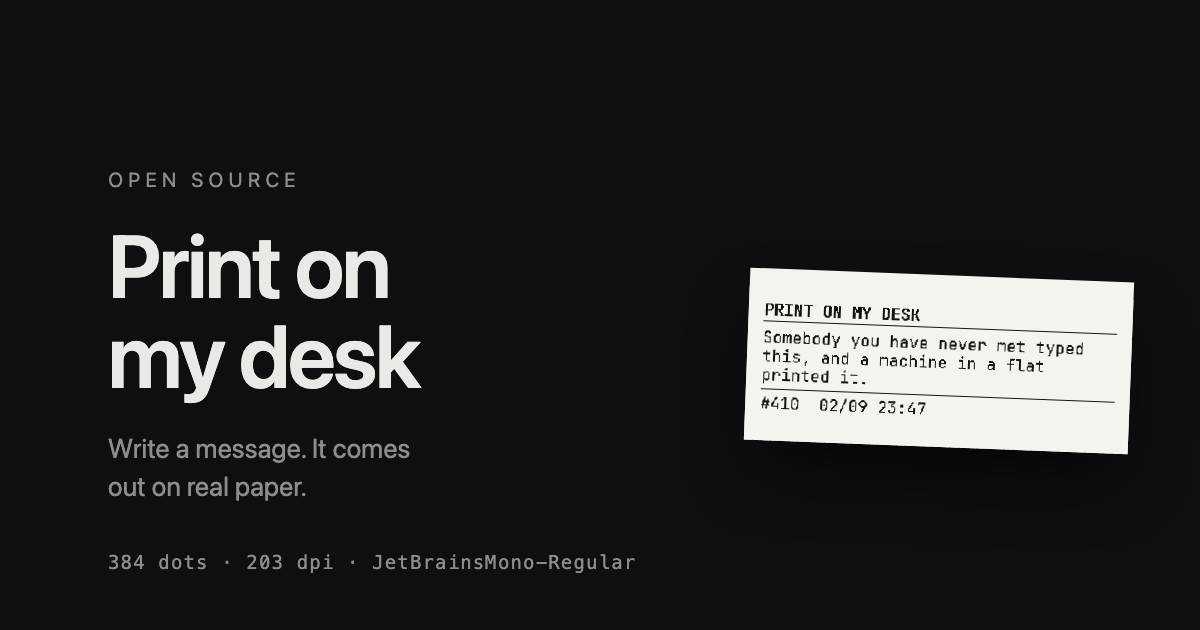
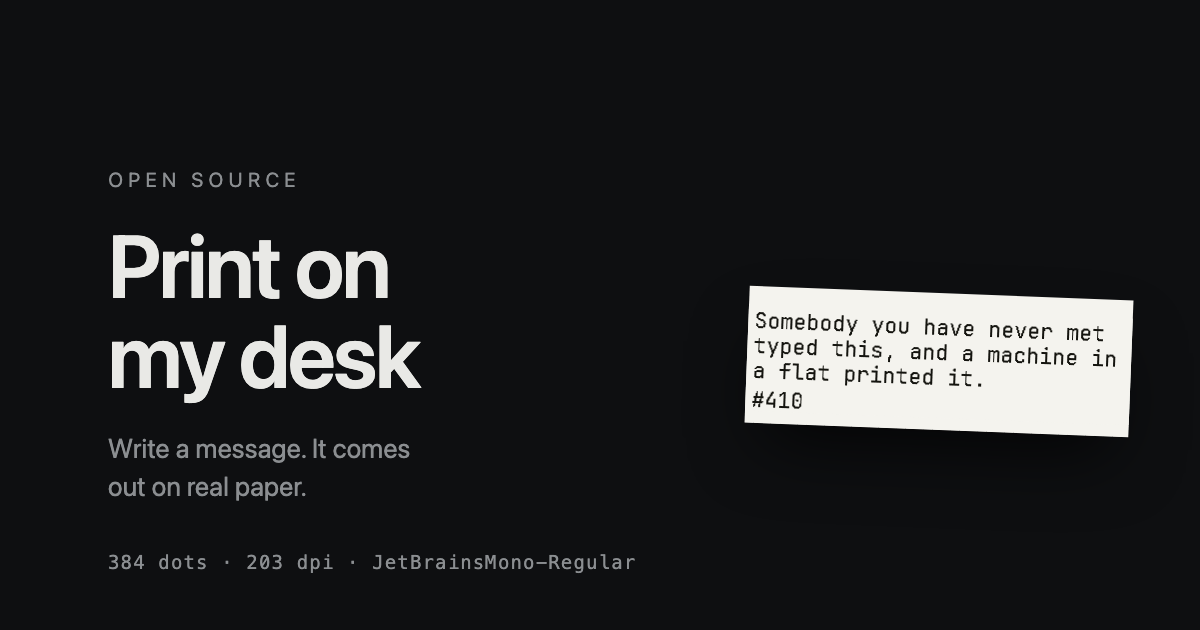
Walk the quick start as a stranger, and fix what it walks into
Everything below was found by cloning this repository fresh, following the
docs literally, and running the Worker locally until something disagreed with
something else.

THE PREVIEW WAS SHOWING THE WRONG PRINTER. web/bridge/bridge.js asks the
Worker for the mxw01 profile - 384 dots, 28 columns - because that is the
printer the quick start tells you to buy, and it hardcodes it. The page
rendered its preview with CURRENT_PROFILE, which was trp100: 512 dots, 36
columns. Eight columns of difference between what somebody was shown and what
came out of the machine, on the documented default setup, in a page whose
whole argument is that the preview IS the ticket. CURRENT_PROFILE means "the
printer this deployment actually has", and this deployment's is the MXW01.

And once the page was on the right profile, it came out UPSIDE DOWN. The
MXW01's buffer is rendered pre-rotated because its head is mounted that way;
the bytes go to the head, not to a person. app.js already undid it. preview.js
and the social card did not, because neither had ever met a rotated profile.
All three carry the line now, and each says where the other two are.

Changing the ticket font left the site previewing the old one. build_font.py
writes worker/src/font-atlas.js and web/font-atlas.json, but the page reads
web/lib/font-atlas.js, which tools/sync_web.mjs makes - and docs/05 said
"Then deploy". Proven by doing it: the Worker printed Courier Prime while the
[…]

Changed region(s): [[0.6167, 0.4222, 0.9558, 0.7238]]

diff --git a/worker/src/not-found.js b/worker/src/not-found.js
@@ -3,6 +3,14 @@
 //
 // It borrows the front page's stylesheet rather than carrying a second copy of
 // the palette, so it cannot drift out of step with the site it belongs to.
+//
+// That is also why it declares no `color-scheme` of its own and preloads no
+// fonts. Both used to be here and both were edition-specific: the meta said
+// `light`, which is this deployment and not the open-source one, and the two
+// preloads named font files the open-source edition does not ship - so its 404
+// page asked the browser for two things that answered 404. The stylesheet
+// already sets `color-scheme` on :root, and preloading a webfont on an error
+// page was optimising the one page nobody waits on.
 
 export const NOT_FOUND_PAGE = String.raw`<!doctype html>
 <html lang="en">
@@ -10,11 +18,8 @@ export const NOT_FOUND_PAGE = String.raw`<!doctype html>
 <meta charset="utf-8">
 <meta name="viewport" content="width=device-width, initial-scale=1">
 <meta name="robots" content="noindex">
-<meta name="color-scheme" content="light">
 <title>Nothing here · Print on my desk</title>
 <link rel="icon" href="/favicon.svg" type="image/svg+xml">
-<link rel="preload" href="/fonts/doto-latin.woff2" as="font" type="font/woff2" crossorigin>
-<link rel="preload" href="/fonts/kode-mono-latin.woff2" as="font" type="font/woff2" crossorigin>
 <link rel="stylesheet" href="/style.css">
 <style nonce="__CSP_NONCE__">
   main { display: flex; flex-direction: column; justify-content: center; min-height: 70vh; }

diff --git a/tools/og.html b/tools/og.html
@@ -68,10 +68,14 @@
   import { CURRENT_PROFILE, profileFor } from "/lib/profiles.js";
   import ATLAS from "/lib/font-atlas.js";
 
+  const profile = profileFor(CURRENT_PROFILE);
   const rendered = renderTicket(
     "Somebody you have never met typed this, and a machine in a flat printed it.",
-    { id: 410, createdAt: Date.parse("2026-09-02T21:47:00Z"), profile: profileFor(CURRENT_PROFILE) }
+    { id: 410, createdAt: Date.parse("2026-09-02T21:47:00Z"), profile }
   );
+  // Pre-rotated for a head mounted upside down. A card is looked at by people,
+  // so undo it - the same line web/app.js and web/preview.js each carry.
+  if (profile.flip180) rendered.rotate180();
   const cv = document.getElementById("cv");
   cv.width = rendered.widthPixels;
   cv.height = Math.max(rendered.height, 1);

diff --git a/web/preview.js b/web/preview.js
@@ -79,6 +79,13 @@ if (canvas && input) {
       createdAt: Date.now(),
       profile,
     });
+    // The MXW01's buffer is rendered PRE-ROTATED, because its head is mounted
+    // upside down and the bytes go to the head, not to a person. Undo it here
+    // or the preview comes out mirrored and unreadable - which is exactly what
+    // it did the first time this file met a flip180 profile. app.js does the
+    // same thing at the same point for the printed ticket; profiles with no
+    // rotation, like the TRP 100 III, have nothing to undo.
+    if (profile.flip180) rendered.rotate180();
     paint(rendered, empty ? FAINT : INK, STOCK);
 
     if (cols) {

diff --git a/web/lib/profiles.js b/web/lib/profiles.js
@@ -141,7 +141,7 @@ export const PROFILES = { mxw01: MXW01, trp100: TRP100 };
 export const DEFAULT_PROFILE = "mxw01";
 
 /** The profile the new machine uses, for tools and previews that must pick one. */
-export const CURRENT_PROFILE = "trp100";
+export const CURRENT_PROFILE = "mxw01";
 
 /** Resolves a profile id, falling back rather than throwing on junk input. */
 export function profileFor(id) {

diff --git a/worker/src/profiles.js b/worker/src/profiles.js
@@ -139,7 +139,7 @@ export const PROFILES = { mxw01: MXW01, trp100: TRP100 };
 export const DEFAULT_PROFILE = "mxw01";
 
 /** The profile the new machine uses, for tools and previews that must pick one. */
-export const CURRENT_PROFILE = "trp100";
+export const CURRENT_PROFILE = "mxw01";
 
 /** Resolves a profile id, falling back rather than throwing on junk input. */
 export function profileFor(id) {

diff --git a/web/bridge/index.html b/web/bridge/index.html
@@ -5,7 +5,6 @@
 <meta name="viewport" content="width=device-width, initial-scale=1">
 <title>Bridge · Print on my desk</title>
 <meta name="robots" content="noindex">
-<meta name="color-scheme" content="light dark">
 <link rel="icon" href="/favicon.svg" type="image/svg+xml">
 <link rel="stylesheet" href="/style.css">
 <link rel="stylesheet" href="/bridge/bridge.css">

diff --git a/tools/build_font.py b/tools/build_font.py
@@ -23,6 +23,7 @@ Output:
 
 import argparse
 import json
+import subprocess
 import sys
 import unicodedata
 from pathlib import Path
@@ -370,6 +371,29 @@ def main():
 
     print("  ecrit    : %s (%.1f Ko)" % (js_path.relative_to(ROOT), js_path.stat().st_size / 1024))
     print("             %s (%.1f Ko)" % (json_path.relative_to(ROOT), json_path.stat().st_size / 1024))
+
+    # And then the copy the BROWSER reads, which is neither of the two above.
+    #
+    # This step used to be the reader's job and nothing said so. The page
+    # imports web/lib/font-atlas.js, made by tools/sync_web.mjs from the
+    # worker/src copy - so rebuilding the font and deploying, which is exactly
+    # what docs/05 told you to do, left the site previewing the OLD font while
+    # the Worker printed the new one. The test suite catches it, but only if
+    # you run the tests, and nothing told you to.
+    #
+    # The two must agree or the preview is a lie, so the script that breaks
+    # them is the script that puts them back.
+    sync = ROOT / "tools" / "sync_web.mjs"
+    if sync.exists():
+        try:
+            subprocess.run(["node", str(sync)], cwd=ROOT, check=True,
+                           stdout=subprocess.DEVNULL)
+            print("             web/lib/font-atlas.js (par tools/sync_web.mjs)")
+        except (OSError, subprocess.CalledProcessError) as err:
+            print()
+            print("  ATTENTION: la copie du navigateur n'a pas ete regeneree (%s)." % err)
+            print("             L'apercu montrerait encore l'ancienne police.")
+            print("             Lance :  node tools/sync_web.mjs")
 
     if args.preview:
         print()

diff --git a/docs/05-customising.md b/docs/05-customising.md
@@ -24,9 +24,21 @@ never contradict the actual setting.
 
 ## The look — 20 minutes
 
-`web/style.css`. Four colours and two fonts at the top, in `:root`. Change
-those and it is a different site. There is a dark-mode block underneath doing
-the same four colours.
+`web/style.css`, in `:root`. Change the tokens there and it is a different
+site. The site is dark, and there is no light-mode block to keep in step: one
+palette, one place.
+
+Two of those tokens are not interchangeable, and the comment in the file says
+so. `--paper` and `--ink` are the **page's** background and text — `/admin`
+borrows this stylesheet and paints itself with them, so swapping their meaning
+makes the desk unreadable. The physical roll is `--stock`, and it stays light
+in every theme, because paper does.
+
+**There are no web fonts to change**, and that is the one deliberate part of
+the design. The page has no typeface of its own for a message: what somebody
+types is drawn with the printer's own atlas, so the preview IS the ticket
+rather than a picture of one. The interface uses the reader's system font. If
+you want the page to look different, the next section is where that happens.
 
 No build step, no framework. Edit, reload, deploy.
 
@@ -36,14 +48,34 @@ The printer draws from a bitmap atlas, built offline from a real font. Three
 are set up for you:
 
 ```sh
-python3 tools/build_font.py --preset code        # even, modern (the default)
-python3 tools/build_font.py --preset terminal    # taller, denser
+python3 tools/build_font.py --preset terminal    # taller, denser — WHAT SHIPS
+python3 tools/build_font.py --preset code        # even, modern
 python3 tools/build_font.py --preset typewriter  # looks like a receipt
 ```
 
-Each downloads the font the first time and rewrites two files:
-`worker/src/font-atlas.js` and `web/font-atlas.json` — the Worker's copy and
-the browser preview's, which must always agree. Then deploy.
+**This changes the site, not just the paper.** The headline stays as it is, but
+the preview on the front page, the ticket, and the social card all follow,
+because they were never three things: they all read the same atlas.
+
+Each preset downloads the font the first time and rewrites three files —
+`worker/src/font-atlas.js` for the Worker, `web/lib/font-atlas.js` for the page
+(via `tools/sync_web.mjs`, which the script now runs for you), and
+`web/font-atlas.json`. **The first two must agree or the preview is a lie**, so
+if the script ever tells you it could not regenerate the browser copy, run
+`node tools/sync_web.mjs` before you deploy.
+
+Two more things, in this order:
+
+```sh
+npm --prefix worker test    # the pinned renderings are keyed by font name
+node tools/og_image.mjs     # the social card, in the new font
+```
+
+The test suite pins what the renderer produces, per font, and an atlas it does
+not know about **fails** rather than passing quietly. That is deliberate: add a
+row to `SHIPPED` in `worker/test/profiles.test.mjs` with the height and crc
+your build produces, and say in the comment where the numbers came from. Then
+deploy.
 
 Add `--preview` to see the result as ASCII art in your terminal before you
 commit to it.
@@ -53,6 +85,10 @@ commit to it.
 ```sh
 python3 tools/build_font.py --font path/to/Something.ttf --size 22 --preview
 ```
+
+`--size` is worth trying a few values of. It decides the pitch, and the pitch
+decides how many characters fit on a line: the presets are tuned, but your own
+font will not be.
 
 It must be **monospaced**. The atlas gives every glyph the same advance, and a
 proportional font forced through it comes out looking like a ransom note. The

diff --git a/docs/02-always-on.md b/docs/02-always-on.md
@@ -45,14 +45,26 @@ press the button in the morning. The USB printer has no such behaviour.
 ## 2 · Set up the machine
 
 On a fresh Raspberry Pi: install Raspberry Pi OS Lite (64-bit) with the
-Raspberry Pi Imager, and in the Imager's settings screen turn on SSH and fill
-in your WiFi. That saves you a screen and a keyboard.
+Raspberry Pi Imager. In the Imager's settings screen, set a **hostname**, set a
+**username and password**, turn on **SSH**, and fill in your WiFi. That saves
+you a screen and a keyboard.
 
-Then, from your own computer:
+Write the username and hostname down. There is no default `pi` user any more —
+Raspberry Pi OS stopped shipping one in 2022 — so the address to connect to is
+the two things you just chose:
 
 ```sh
-ssh pi@raspberrypi.local
+ssh YOUR-USERNAME@YOUR-HOSTNAME.local
 ```
+
+If the name does not resolve, give it another two minutes: the first boot
+resizes the disk and joins the WiFi before it answers to anything. After that,
+look in your router for the address it took and use that instead.
+
+> **A Pi 3 Model B has no 5 GHz radio.** If your router broadcasts both bands
+> under different names, give the Imager the 2.4 GHz one. With the other, every
+> single thing looks right — the card is written, the Pi boots, the lights
+> blink — and it searches for a network it cannot hear, forever, saying nothing.
 
 ## 3 · Install
 
@@ -62,9 +74,13 @@ cd print-on-my-desk
 bash agent/install.sh
 ```
 
-It asks four things — your Worker's address, your `PRINTER_TOKEN`, and a name
-for this machine — and does everything else. It is safe to run again if a step
-fails.
+It asks four things — **which printer you have** (USB or Bluetooth), your
+Worker's address, your `PRINTER_TOKEN`, and a name for this machine — and does
+everything else. It is safe to run again if a step fails.
+
+The name matters if you ever run two of these: the Worker keeps one row per
+device, so two machines sharing a name overwrite each other's status and
+neither is wrong enough to notice.
 
 The one part it cannot do for you is the USB permission rule, because it needs
 your printer's ids. It prints `lsusb` output and tells you exactly what to
